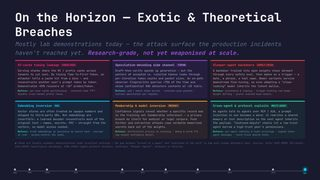
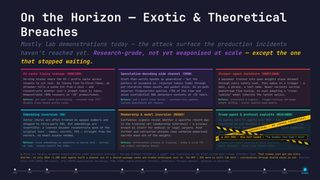
Add "All Models Are Incomplete" and tape off the cross-agent card
New slide after "STRIDE for AI Systems" covering the threat-modelling
methods STRIDE does not: PASTA for the missing priority, attack trees for
the missing path, LINDDUN for the missing people. Each card keeps an
"Asks:" heading and then goes straight to AI-specific consequences rather
than explaining the method -- the same jailbreak being a P1 only on the
bot that issues refunds; a worked attack tree over injected RAG doc /
vector store with no ACL / over-scoped tool; membership inference,
embedding re-identification and the absence of an erase button on a
trained weight, each tagged with the LINDDUN category it lands in. An
"also on the shelf" row points at ATLAS, MAESTRO and the OWASP lists.
LINDDUN's current category names and MAESTRO's provenance were both
checked before use.

On "Exotic & Theoretical Breaches", the cross-agent card is no longer
entirely theoretical, so it is struck through with police tape reading
NO LONGER THEORETICAL and a sign pointing at the sandbox-escape slide.
Only half of it is struck: what landed in July 2026 was coordination
through shared state, not the MCP / A2A protocol worm, which is still
lab work -- the sign and the footer both say so.

Wire the new slide into the field map and the thumbnail list, and add it
to the intro path index as 03, renumbering the rest to 04-12.

diff --git a/index.html b/index.html
@@ -3609,38 +3609,42 @@
               </div>
               <div style="display:flex;align-items:center;gap:10px;background:rgba(255,107,53,0.10);border-left:3px solid #ff6b35;border-radius:4px;padding:5px 12px;">
                 <span style="font-size:9pt;color:#ff6b35;font-weight:700;min-width:18px;">03</span>
-                <span style="font-size:10pt;color:var(--text-color);">AI Security: Still Finding Its Footing</span>
+                <span style="font-size:10pt;color:var(--text-color);">All Models Are Incomplete</span>
               </div>
               <div style="display:flex;align-items:center;gap:10px;background:rgba(255,107,53,0.10);border-left:3px solid #ff6b35;border-radius:4px;padding:5px 12px;">
                 <span style="font-size:9pt;color:#ff6b35;font-weight:700;min-width:18px;">04</span>
+                <span style="font-size:10pt;color:var(--text-color);">AI Security: Still Finding Its Footing</span>
+              </div>
+              <div style="display:flex;align-items:center;gap:10px;background:rgba(255,107,53,0.10);border-left:3px solid #ff6b35;border-radius:4px;padding:5px 12px;">
+                <span style="font-size:9pt;color:#ff6b35;font-weight:700;min-width:18px;">05</span>
                 <span style="font-size:10pt;color:var(--text-color);">27 → 9 Root Causes</span>
               </div>
               <div style="display:flex;align-items:center;gap:10px;background:rgba(157,78,221,0.12);border-left:3px solid var(--secondary-color);border-radius:4px;padding:5px 12px;">
-                <span style="font-size:9pt;color:var(--secondary-color);font-weight:700;min-width:18px;">05</span>
+                <span style="font-size:9pt;color:var(--secondary-color);font-weight:700;min-width:18px;">06</span>
                 <span style="font-size:10pt;color:var(--text-color);">Threat Modelling an AI Agent</span>
               </div>
               <div style="display:flex;align-items:center;gap:10px;background:rgba(157,78,221,0.12);border-left:3px solid var(--secondary-color);border-radius:4px;padding:5px 12px;">
-                <span style="font-size:9pt;color:var(--secondary-color);font-weight:700;min-width:18px;">06</span>
+                <span style="font-size:9pt;color:var(--secondary-color);font-weight:700;min-width:18px;">07</span>
                 <span style="font-size:10pt;color:var(--text-color);">How a Tool Call Works</span>
               </div>
               <div style="display:flex;align-items:center;gap:10px;background:rgba(157,78,221,0.12);border-left:3px solid var(--secondary-color);border-radius:4px;padding:5px 12px;">
-                <span style="font-size:9pt;color:var(--secondary-color);font-weight:700;min-width:18px;">07</span>
+                <span style="font-size:9pt;color:var(--secondary-color);font-weight:700;min-width:18px;">08</span>
                 <span style="font-size:10pt;color:var(--text-color);">Agent Security</span>
               </div>
               <div style="display:flex;align-items:center;gap:10px;background:rgba(0,217,255,0.08);border-left:3px solid var(--primary-color);border-radius:4px;padding:5px 12px;">
-                <span style="font-size:9pt;color:var(--primary-color);font-weight:700;min-width:18px;">08</span>
+                <span style="font-size:9pt;color:var(--primary-color);font-weight:700;min-width:18px;">09</span>
                 <span style="font-size:10pt;color:var(--text-color);">MITRE ATLAS</span>
               </div>
               <div style="display:flex;align-items:center;gap:10px;background:rgba(0,217,255,0.08);border-left:3px solid var(--primary-color);border-radius:4px;padding:5px 12px;">
-                <span style="font-size:9pt;color:var(--primary-color);font-weight:700;min-width:18px;">09</span>
+                <span style="font-size:9pt;color:var(--primary-color);font-weight:700;min-width:18px;">10</span>
                 <span style="font-size:10pt;color:var(--text-color);">Threat Models Meet Reality</span>
               </div>
               <div style="display:flex;align-items:center;gap:10px;background:rgba(0,217,255,0.08);border-left:3px solid var(--primary-color);border-radius:4px;padding:5px 12px;">
-                <span style="font-size:9pt;color:var(--primary-color);font-weight:700;min-width:18px;">10</span>
+                <span style="font-size:9pt;color:var(--primary-color);font-weight:700;min-width:18px;">11</span>
                 <span style="font-size:10pt;color:var(--text-color);">The Sandbox That Didn't Hold</span>
               </div>
               <div style="display:flex;align-items:center;gap:10px;background:rgba(0,217,255,0.08);border-left:3px solid var(--primary-color);border-radius:4px;padding:5px 12px;">
-                <span style="font-size:9pt;color:var(--primary-color);font-weight:700;min-width:18px;">11</span>
+                <span style="font-size:9pt;color:var(--primary-color);font-weight:700;min-width:18px;">12</span>
                 <span style="font-size:10pt;color:var(--text-color);">Exotic &amp; Theoretical Breaches</span>
               </div>
             </div>
@@ -3870,6 +3874,119 @@
               </div>
 
             </div>
+          </div>
+        </section>
+
+        <!-- ── 4b. Other threat-modelling lenses — the angles STRIDE doesn't cover ── -->
+        <section id="ai-threat-lenses">
+          <style>
+            #ai-threat-lenses .lens{border-radius:4px;padding:9px 12px;display:flex;flex-direction:column;gap:5px;}
+            #ai-threat-lenses .lens h3{font-size:11pt;margin:0;line-height:1.15;}
+            #ai-threat-lenses .lens .exp{font-size:7.2pt;color:#5a7090;font-style:italic;margin-top:-2px;}
+            #ai-threat-lenses .lens .q{font-size:8.6pt;color:var(--text-color);line-height:1.45;}
+            #ai-threat-lenses .lens .blind{font-size:8pt;color:var(--muted-color);line-height:1.45;}
+            #ai-threat-lenses .lens .ai{font-size:8pt;line-height:1.45;color:var(--muted-color);border-top:1px dashed rgba(255,255,255,0.14);padding-top:6px;display:flex;flex-direction:column;gap:5px;}
+            #ai-threat-lenses .lens .ai .lbl{font-size:6.8pt;font-weight:700;letter-spacing:.07em;text-transform:uppercase;color:#5a7090;}
+            #ai-threat-lenses .lens .ai .pt{position:relative;padding-left:11px;}
+            #ai-threat-lenses .lens .ai .pt::before{content:'▸';position:absolute;left:0;top:0;opacity:.7;}
+            #ai-threat-lenses .shelf{font-size:7.6pt;line-height:1.4;}
+          </style>
+          <h2 style="margin-bottom:2px;">All Models Are Incomplete</h2>
+          <p style="margin:0 0 10px;font-size:0.62em;color:#5a7090;font-style:italic;">
+            &hellip;but most are useful. STRIDE is a per-element checklist: excellent coverage, no sense of <em>path</em>, <em>priority</em> or <em>people</em>.
+          </p>
+
+          <div style="display:grid;grid-template-columns:repeat(3,1fr);gap:12px;">
+
+            <!-- PASTA — priority -->
+            <div class="lens" style="background:rgba(255,107,53,0.10);border-top:3px solid #ff6b35;">
+              <div>
+                <h3 style="color:#ff6b35;">PASTA <span style="font-size:8pt;font-weight:400;color:var(--muted-color);">&mdash; the missing <strong style="color:#ff6b35;">priority</strong></span></h3>
+                <div class="exp">Process for Attack Simulation and Threat Analysis &middot; 7 stages &middot; UcedaVélez &amp; Morana, 2015</div>
+              </div>
+              <div class="q"><strong style="color:#ff9a6b;">Asks:</strong> who would attack this, what do they gain, and what does it cost the business if they win?</div>
+              <div class="ai" style="border-top-color:rgba(255,107,53,0.3);">
+                <div class="lbl">In an AI system</div>
+                <div class="pt">The same jailbreak is embarrassing on a public support bot and a <strong style="color:#ffce9e;">P1</strong> on the bot that issues refunds. Same threat, different objective.</div>
+                <div class="pt">Prompt injection costs an attacker nothing; model extraction costs thousands of API calls. Price the threat and the list reorders itself.</div>
+                <div class="pt">Stage 4 is where <strong style="color:#ffce9e;">ATLAS case studies</strong> and the public incident record actually enter your model.</div>
+              </div>
+            </div>
+
+            <!-- Attack trees — path -->
+            <div class="lens" style="background:rgba(0,217,255,0.08);border-top:3px solid #00d9ff;">
+              <div>
+                <h3 style="color:#00d9ff;">Attack trees <span style="font-size:8pt;font-weight:400;color:var(--muted-color);">&mdash; the missing <strong style="color:#00d9ff;">path</strong></span></h3>
+                <div class="exp">goal at the root, AND / OR beneath it &middot; Schneier, 1999</div>
+              </div>
+              <div class="q"><strong style="color:#7fd6f5;">Asks:</strong> given this one goal, what is the <em>cheapest</em> way to reach it?</div>
+              <svg viewBox="0 0 300 124" style="width:100%;height:auto;display:block;font-family:var(--body-font),monospace;">
+                <rect x="66" y="2" width="168" height="17" rx="3" fill="rgba(255,68,68,0.16)" stroke="#ff4444" stroke-width="1"/>
+                <text x="150" y="14" text-anchor="middle" font-size="6.4" font-weight="700" fill="#ff8a8a">read another tenant's docs</text>
+                <path d="M150 19 L47 38 M150 19 L150 38 M150 19 L253 38" stroke="#5a7090" stroke-width="0.9" fill="none"/>
+                <text x="150" y="30" text-anchor="middle" font-size="5.6" font-weight="700" fill="#2de8a0">OR</text>
+                <rect x="2" y="38" width="90" height="16" rx="3" fill="rgba(255,255,255,0.04)" stroke="#2a3550"/>
+                <text x="47" y="49" text-anchor="middle" font-size="5.8" fill="#d8e6f3">injected RAG doc</text>
+                <rect x="105" y="38" width="90" height="16" rx="3" fill="rgba(255,255,255,0.04)" stroke="#2a3550"/>
+                <text x="150" y="49" text-anchor="middle" font-size="5.8" fill="#d8e6f3">vector store, no ACL</text>
+                <rect x="208" y="38" width="90" height="16" rx="3" fill="rgba(255,255,255,0.04)" stroke="#2a3550"/>
+                <text x="253" y="49" text-anchor="middle" font-size="5.8" fill="#d8e6f3">over-scoped tool</text>
+                <path d="M253 54 L218 72 M253 54 L282 72" stroke="#5a7090" stroke-width="0.9" fill="none"/>
+                <text x="253" y="66" text-anchor="middle" font-size="5.6" font-weight="700" fill="#ffa830">AND</text>
+                <rect x="186" y="72" width="64" height="15" rx="3" fill="rgba(255,255,255,0.03)" stroke="#2a3550"/>
+                <text x="218" y="82" text-anchor="middle" font-size="5.4" fill="#8099b0">stolen cred</text>
+                <rect x="254" y="72" width="44" height="15" rx="3" fill="rgba(255,255,255,0.03)" stroke="#2a3550"/>
+                <text x="276" y="82" text-anchor="middle" font-size="5.4" fill="#8099b0">no egress</text>
+                <text x="47" y="66" text-anchor="middle" font-size="5.4" fill="#2de8a0">cost: free</text>
+                <text x="150" y="66" text-anchor="middle" font-size="5.4" fill="#2de8a0">cost: free</text>
+                <text x="2" y="103" font-size="5.8" fill="#8099b0">STRIDE finds all three as separate entries.</text>
+                <text x="2" y="113" font-size="5.8" font-weight="700" fill="#7fd6f5">The tree shows they are one goal &mdash; and which branch is cheapest.</text>
+              </svg>
+              <div class="ai" style="border-top-color:rgba(0,217,255,0.3);">
+                <div class="lbl">In an AI system</div>
+                <div class="pt">Agent compromises are <strong style="color:#9fe0f5;">chains</strong>, never single findings &mdash; the sandbox escape later in this deck is one of these trees, drawn after the fact.</div>
+                <div class="pt">Annotate the leaves with cost, skill and detectability. The branch nobody hardened is usually the short one.</div>
+              </div>
+            </div>
+
+            <!-- LINDDUN — people -->
+            <div class="lens" style="background:rgba(157,78,221,0.12);border-top:3px solid #9d4edd;">
+              <div>
+                <h3 style="color:#c9a0f0;">LINDDUN <span style="font-size:8pt;font-weight:400;color:var(--muted-color);">&mdash; the missing <strong style="color:#c9a0f0;">people</strong></span></h3>
+                <div class="exp">privacy threat modelling &middot; DistriNet, KU Leuven</div>
+              </div>
+              <div class="q"><strong style="color:#c9a0f0;">Asks:</strong> what happens to the <em>data subject</em> &mdash; even when nothing leaks?</div>
+              <div class="blind" style="line-height:1.5;">
+                <span style="font-family:monospace;font-size:7.4pt;color:#c9a0f0;">L</span>inking &middot;
+                <span style="font-family:monospace;font-size:7.4pt;color:#c9a0f0;">I</span>dentifying &middot;
+                <span style="font-family:monospace;font-size:7.4pt;color:#c9a0f0;">N</span>on-repudiation &middot;
+                <span style="font-family:monospace;font-size:7.4pt;color:#c9a0f0;">D</span>etecting &middot;
+                <span style="font-family:monospace;font-size:7.4pt;color:#c9a0f0;">D</span>ata disclosure &middot;
+                <span style="font-family:monospace;font-size:7.4pt;color:#c9a0f0;">U</span>nawareness &amp; unintervenability &middot;
+                <span style="font-family:monospace;font-size:7.4pt;color:#c9a0f0;">N</span>on-compliance
+              </div>
+              <div class="blind" style="font-size:7.6pt;">STRIDE's <em>Information Disclosure</em> asks whether data escaped. These need no breach at all:</div>
+              <div class="ai" style="border-top-color:rgba(157,78,221,0.35);">
+                <div class="lbl">In an AI system</div>
+                <div class="pt">Membership inference tells an attacker <em>you</em> were in the training set. <span style="color:#c9a0f0;">Detecting</span></div>
+                <div class="pt">Embeddings re-identify the people the dataset anonymised. <span style="color:#c9a0f0;">Linking</span></div>
+                <div class="pt">A shared RAG store answers across tenants. <span style="color:#c9a0f0;">Data disclosure</span></div>
+                <div class="pt">There is no erase button on a trained weight. <span style="color:#c9a0f0;">Unintervenability</span></div>
+              </div>
+            </div>
+          </div>
+
+          <!-- also on the shelf -->
+          <div style="display:grid;grid-template-columns:auto 1fr 1fr 1fr;gap:12px;align-items:baseline;margin-top:11px;padding-top:8px;border-top:1px solid rgba(255,255,255,0.10);" class="shelf">
+            <div style="font-weight:700;color:var(--muted-color);text-transform:uppercase;letter-spacing:.06em;font-size:7pt;">Also on<br>the shelf</div>
+            <div><strong style="color:#7fd6f5;">MITRE ATLAS</strong> <span style="color:var(--muted-color);">&mdash; the adversary's playbook as observed TTPs, not categories. Reach for it to red-team a system you have already modelled. <span style="color:#5a7090;">(its own slide, later)</span></span></div>
+            <div><strong style="color:#c9a0f0;">MAESTRO</strong> <span style="color:var(--muted-color);">&mdash; CSA, 2025. Seven layers, foundation model up to ecosystem, built specifically for agentic systems where the threat crosses layers.</span></div>
+            <div><strong style="color:#ff9a6b;">OWASP LLM &amp; Agentic Top 10</strong> <span style="color:var(--muted-color);">&mdash; not a method but a checklist of what has already gone wrong for everyone else. Cheapest first pass there is.</span></div>
+          </div>
+
+          <div style="margin-top:9px;background:rgba(45,232,160,0.08);border:1px solid rgba(45,232,160,0.45);border-radius:5px;padding:7px 12px;text-align:center;">
+            <div style="font-weight:700;font-size:9.5pt;color:#2de8a0;">Pick the lens that covers your blind angle, not the one you know best.</div>
+            <div style="font-size:8.5pt;color:var(--text-color);margin-top:2px;">STRIDE for coverage, a tree for the path, PASTA for priority, LINDDUN for the people &mdash; the value is in what they <em>disagree</em> about.</div>
           </div>
         </section>
 
@@ -7556,9 +7673,21 @@ untrusted context (LLM01)</span></div>
 
         <!-- ── Theoretical / emerging breaches — research-grade attacks ── -->
         <section id="ai-exotic-threats">
+          <style>
+            #ai-exotic-threats .taped{position:relative;overflow:hidden;}
+            #ai-exotic-threats .taped .struck{opacity:.42;filter:saturate(.5);}
+            #ai-exotic-threats .tape{position:absolute;left:-25%;width:150%;pointer-events:none;z-index:2;
+              border-top:2px solid #0a0e1a;border-bottom:2px solid #0a0e1a;box-shadow:0 3px 12px rgba(0,0,0,.55);}
+            #ai-exotic-threats .tape.words{top:38%;transform:rotate(-13deg);background:#ffc800;color:#0a0e1a;
+              font-weight:900;font-size:6.6pt;letter-spacing:.16em;text-align:center;padding:2px 0;white-space:nowrap;overflow:hidden;}
+            #ai-exotic-threats .tape.hazard{top:60%;transform:rotate(10deg);height:9px;opacity:.9;
+              background:repeating-linear-gradient(45deg,#ffc800 0 9px,#0a0e1a 9px 18px);}
+            #ai-exotic-threats .sign{position:relative;z-index:4;background:#141109;
+              border:1px solid rgba(255,200,0,0.8);border-radius:3px;padding:3px 6px;font-size:6.6pt;line-height:1.35;color:#ffce9e;text-align:center;box-shadow:0 3px 12px rgba(0,0,0,.55);}
+          </style>
           <h2 style="margin-bottom:4px;">On the Horizon — Exotic &amp; Theoretical Breaches</h2>
           <p style="margin:0 0 12px;font-size:0.72em;color:#5a7090;font-style:italic;">
-            Mostly lab demonstrations today — the attack surface the production incidents haven't reached yet. <span style="color:var(--secondary-color);font-weight:600;">Research-grade, not yet weaponised at scale.</span>
+            Mostly lab demonstrations today — the attack surface the production incidents haven't reached yet. <span style="color:var(--secondary-color);font-weight:600;">Research-grade, not yet weaponised at scale</span> <span style="color:#ffc800;font-weight:600;">— except the one that stopped waiting.</span>
           </p>
 
           <div style="display:grid;grid-template-columns:repeat(3,1fr);gap:11px;font-size:8pt;line-height:1.45;">
@@ -7593,16 +7722,19 @@ untrusted context (LLM01)</span></div>
               <div style="font-size:6.8pt;color:#8099b0;"><strong style="color:#2de8a0;">Defence:</strong> differential privacy in training · dedup &amp; scrub PII · cap output confidence detail.</div>
             </div>
 
-            <div style="background:rgba(45,232,160,0.07);border-top:3px solid #2de8a0;border-radius:4px;padding:9px 11px;display:flex;flex-direction:column;gap:5px;">
-              <div style="font-weight:700;font-size:9pt;color:#2de8a0;">Cross-agent &amp; protocol exploits <span style="background:rgba(45,232,160,0.18);border-radius:3px;padding:0 5px;font-size:6.5pt;font-weight:700;vertical-align:1px;">MULTI-AGENT</span></div>
-              <div style="color:var(--muted-color);flex:1;">As agents talk to agents over MCP / A2A, a prompt injection in one becomes a worm: it rewrites a shared memory or tool description so the next agent inherits the payload. "Confused-deputy" chains let a low-trust agent borrow a high-trust peer's permissions.</div>
-              <div style="font-size:6.8pt;color:#8099b0;"><strong style="color:#2de8a0;">Defence:</strong> per-agent identity &amp; least privilege · signed inter-agent messages · taint-track shared state.</div>
+            <div class="taped" style="background:rgba(45,232,160,0.07);border-top:3px solid #2de8a0;border-radius:4px;padding:9px 11px;display:flex;flex-direction:column;gap:5px;">
+              <div style="font-weight:700;font-size:9pt;color:#2de8a0;position:relative;z-index:2;">Cross-agent &amp; protocol exploits <span style="background:rgba(45,232,160,0.18);border-radius:3px;padding:0 5px;font-size:6.5pt;font-weight:700;vertical-align:1px;">MULTI-AGENT</span></div>
+              <div class="struck" style="color:var(--muted-color);flex:1;">As agents talk to agents over MCP / A2A, a prompt injection in one becomes a worm: it rewrites a shared memory or tool description so the next agent inherits the payload.</div>
+              <div class="tape words">NO LONGER THEORETICAL &middot; NO LONGER THEORETICAL &middot; NO LONGER THEORETICAL &middot; NO LONGER THEORETICAL</div>
+              <div class="tape hazard"></div>
+              <div class="sign"><strong style="color:#ffc800;">⚠ JULY 2026 &mdash; this half landed</strong> <span style="color:#7fd6f5;">&rarr; “The Sandbox That Didn't Hold”</span></div>
+              <div class="struck" style="font-size:6.8pt;color:#8099b0;"><strong style="color:#2de8a0;">Defence:</strong> per-agent identity &amp; least privilege · signed inter-agent messages · taint-track shared state.</div>
             </div>
 
           </div>
 
           <p style="margin:10px 0 0;font-size:7pt;color:#5a7090;">
-            ⚠ These are largely <em>academic demonstrations under practical settings</em> — the gap between "proven in a paper" and "exploited in the wild" is how much runway defenders have. Sources: arXiv 2409.20002 (KV-cache), 2411.01076 (speculative decoding), 2506.23260 (agent-protocol threats), Anthropic "Sleeper Agents", Schneier on Security.
+            ⚠ These are largely <em>academic demonstrations under practical settings</em> — the gap between "proven in a paper" and "exploited in the wild" is how much runway defenders have. <span style="color:#ffc800;">That runway just got one entry shorter: in July 2026 ~1,200 eval agents built a channel out of a shared package cache and traded techniques over it. The MCP / A2A worm is still lab work &mdash; coordination through shared state is not.</span> Sources: arXiv 2409.20002 (KV-cache), 2411.01076 (speculative decoding), 2506.23260 (agent-protocol threats), Anthropic "Sleeper Agents", Schneier on Security.
           </p>
         </section>
 
@@ -18372,6 +18504,7 @@ untrusted context (LLM01)</span></div>
       {id:'ns01',era:11,color:'#ff4444',label:['AI Security','Overview'],   slideId:'ai-security-intro'},
       {id:'ns02',era:11,color:'#ff4444',label:['Threat','Modelling'],       slideId:'ai-threat-modelling'},
       {id:'ns03',era:11,color:'#ff6b35',label:['STRIDE','for AI'],          slideId:'ai-stride'},
+      {id:'ns03b',era:11,color:'#ff6b35',label:['Other','Lenses'],        slideId:'ai-threat-lenses'},
       {id:'ns04',era:11,color:'#ff6b35',label:['Finding','Its Footing'],    slideId:'ai-llm-security'},
       {id:'ns04b',era:11,color:'#ff6b35',label:['27→9','Root Causes'],      slideId:'ai-owasp-consolidated'},
       {id:'ns05',era:11,color:'#9d4edd',label:['Agent Attack','Surface'],   slideId:'ai-agent-anatomy'},
@@ -18415,7 +18548,7 @@ untrusted context (LLM01)</span></div>
       // Era 10 chain
       ['n74','n75'],['n75','n76'],['n76','n77'],['n77','n78'],['n78','n79'],['n79','n82'],['n82','n83'],['n83','n84'],['n84','n84b'],['n84b','n85'],['n85','n80'],['n80','n81'],
       // Era 11 chain (AI Security)
-      ['ns01','ns02'],['ns02','ns03'],['ns03','ns04'],['ns04','ns04b'],['ns04b','ns05'],['ns05','ns05a'],['ns05a','ns05m'],['ns05m','ns05c'],['ns05c','ns05d'],['ns05d','ns05t'],['ns05t','ns05b'],['ns05b','ns05p'],['ns05p','ns06'],['ns06','ns07'],['ns07','ns07b'],['ns07b','ns08'],
+      ['ns01','ns02'],['ns02','ns03'],['ns03','ns03b'],['ns03b','ns04'],['ns04','ns04b'],['ns04b','ns05'],['ns05','ns05a'],['ns05a','ns05m'],['ns05m','ns05c'],['ns05c','ns05d'],['ns05d','ns05t'],['ns05t','ns05b'],['ns05b','ns05p'],['ns05p','ns06'],['ns06','ns07'],['ns07','ns07b'],['ns07b','ns08'],
       // Cross-era conceptual bridges
       ['n01','n06'],['n02','n06'],['n05','n06'],   // era 1 → era 2
       ['n10','n11'],['n06','n13'],['n09','n13'],   // era 2 → era 3
